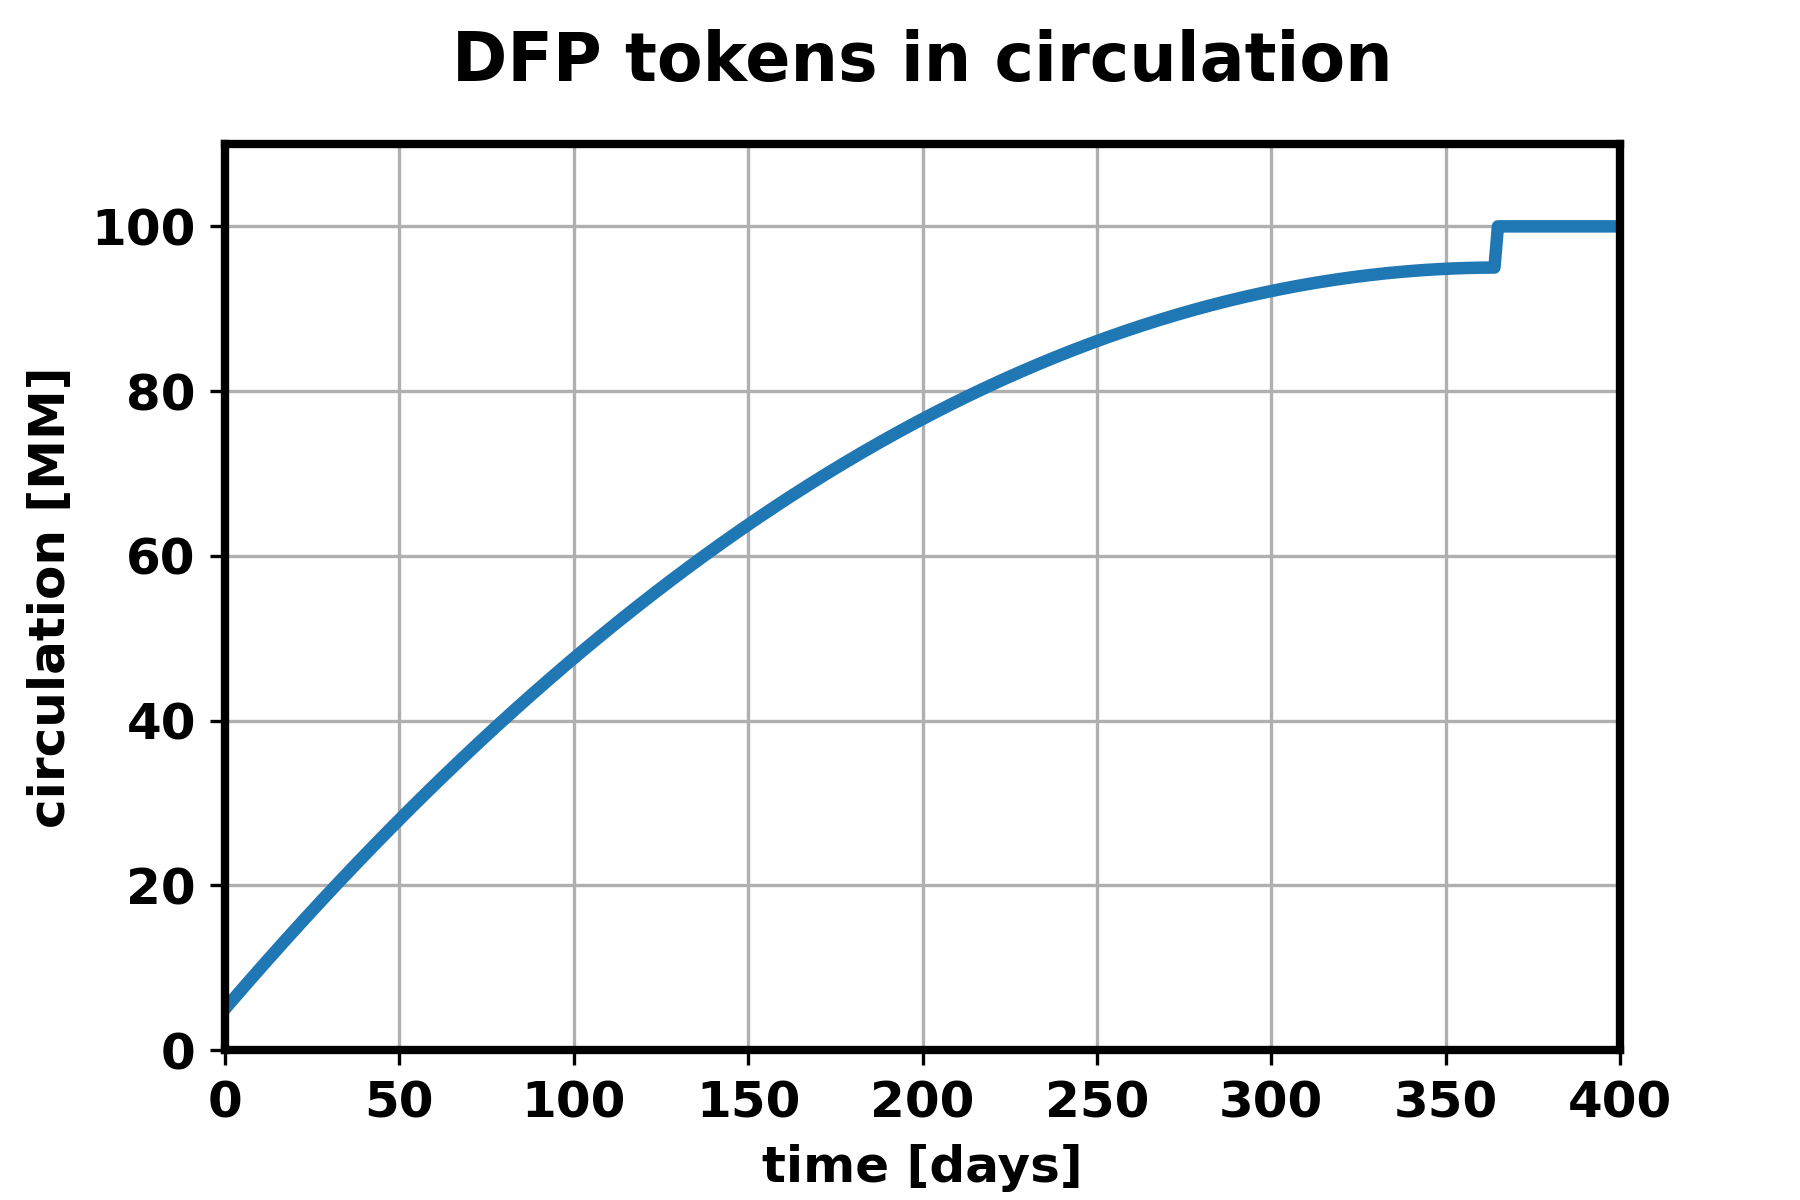
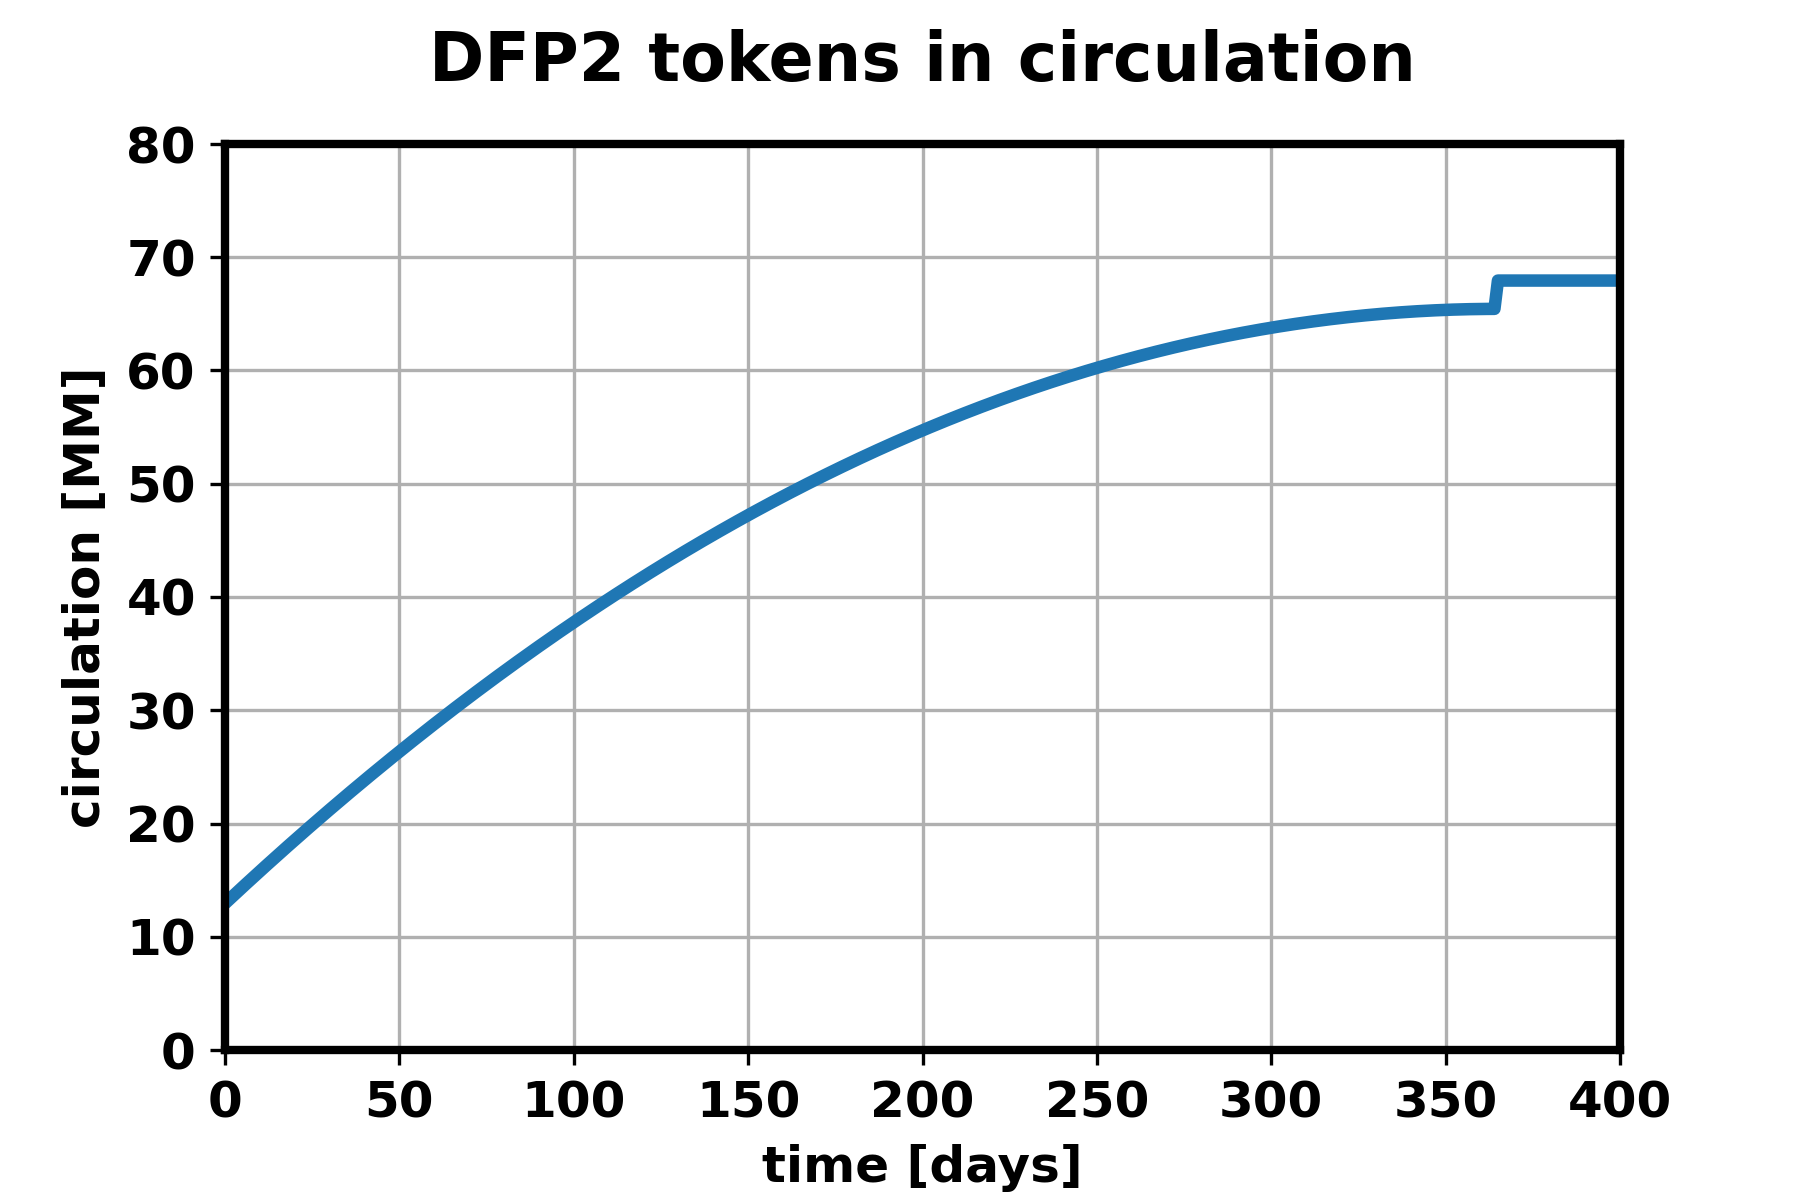
updated distribution graphics for v2

Changed region(s): [[0.0, 0.0925, 0.9022, 0.8325], [0.2178, 0.0, 0.8089, 0.0925]]

diff --git a/graphs/distribution_v2.py b/graphs/distribution_v2.py
@@ -1,0 +1,47 @@
+import numpy as np
+import pandas as pd
+import matplotlib
+from matplotlib import pyplot as plt
+from matplotlib.transforms import ScaledTranslation
+import seaborn as sns
+
+matplotlib.rcParams['lines.linewidth'] = 3.0
+matplotlib.rcParams['axes.linewidth'] = 2.0
+matplotlib.rcParams['axes.labelweight'] = 'bold'
+matplotlib.rcParams['axes.titleweight'] = 'bold'
+matplotlib.rcParams['axes.grid'] = True
+matplotlib.rcParams['font.weight'] = 'bold'
+matplotlib.rcParams['font.size'] = 12
+
+# Setup the axis
+
+# Load and trend gas usage graph
+days = np.linspace(0,400,401)
+rewards = (12941915 + 105e6*days/365 - 52.5e6*days**2/365**2)*(days<365) + 67941915*(days>=365)
+rate = 100e6/365*(1-days/365)*(days<365)
+
+fig = plt.figure(figsize=(6, 4))
+ax = plt.gca()
+sns.lineplot(x=days, y=rewards/1e6)
+ax.set_ylim((0, 80))
+ax.set_xlim((0, 400))
+
+ax.set_title("DFP2 tokens in circulation", pad=15, fontsize=16)
+ax.set_xlabel("time [days]")
+ax.set_ylabel("circulation [MM]")
+
+plt.savefig('circulation.png', dpi=300)
+plt.show()
+
+ig = plt.figure(figsize=(6, 4))
+ax = plt.gca()
+sns.lineplot(x=days, y=rate/1e3)
+ax.set_ylim((0, 300))
+ax.set_xlim((0, 400))
+
+ax.set_title("Liquidity mining release rate", pad=15, fontsize=16)
+ax.set_xlabel("time [days]")
+ax.set_ylabel("release rate [k/day]")
+
+plt.savefig('rate.png', dpi=300)
+plt.show()
